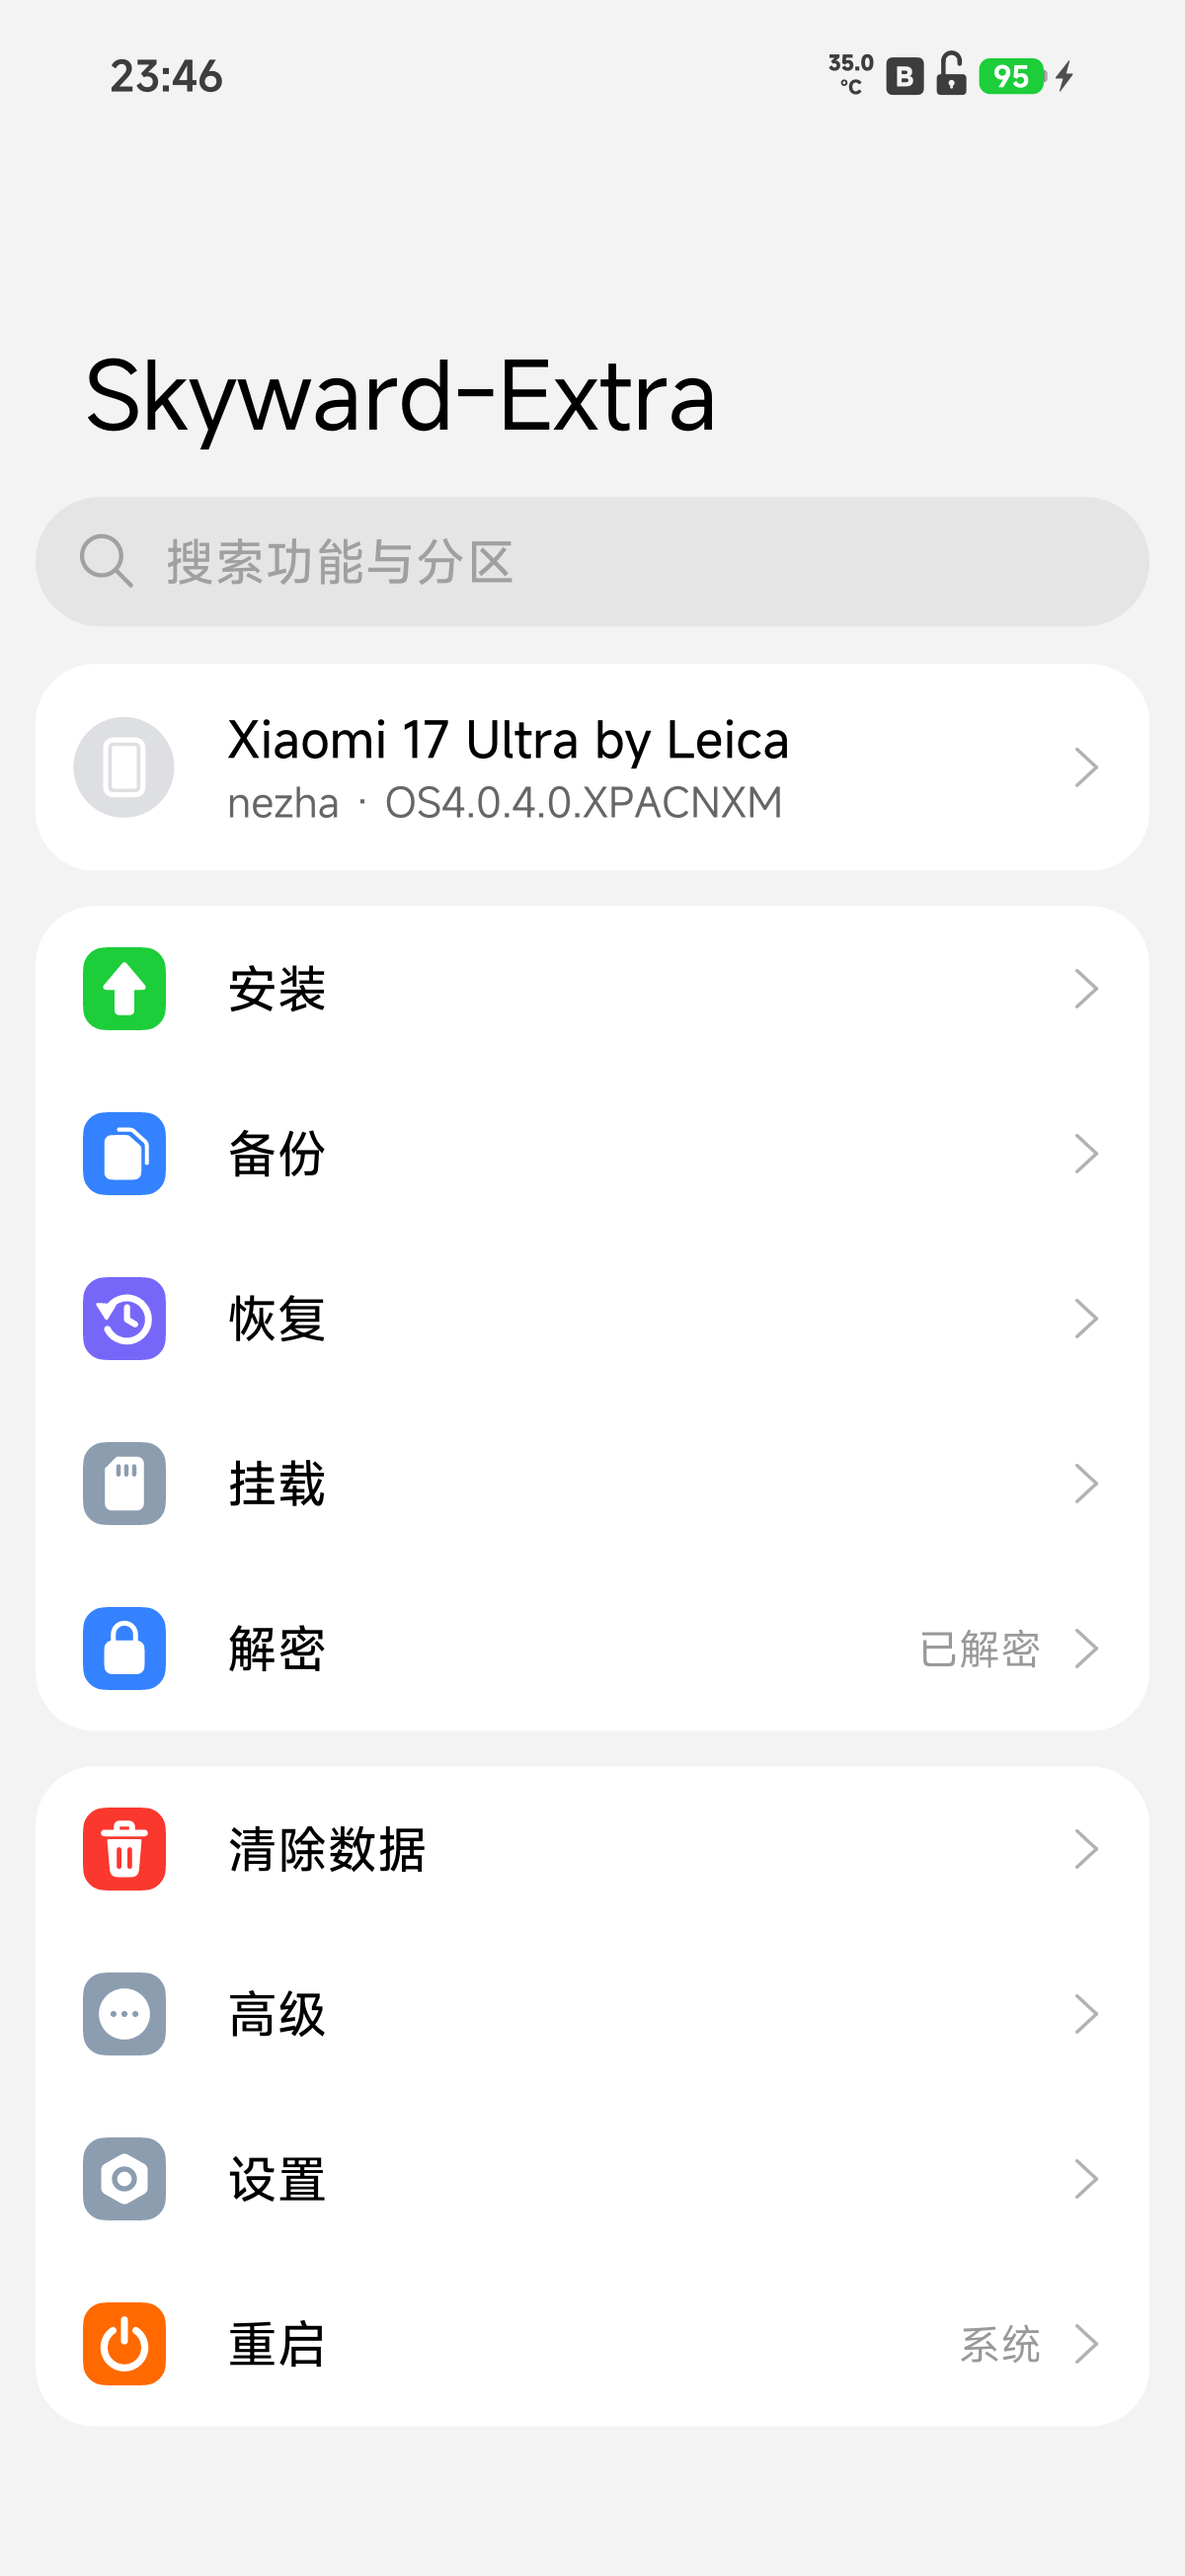
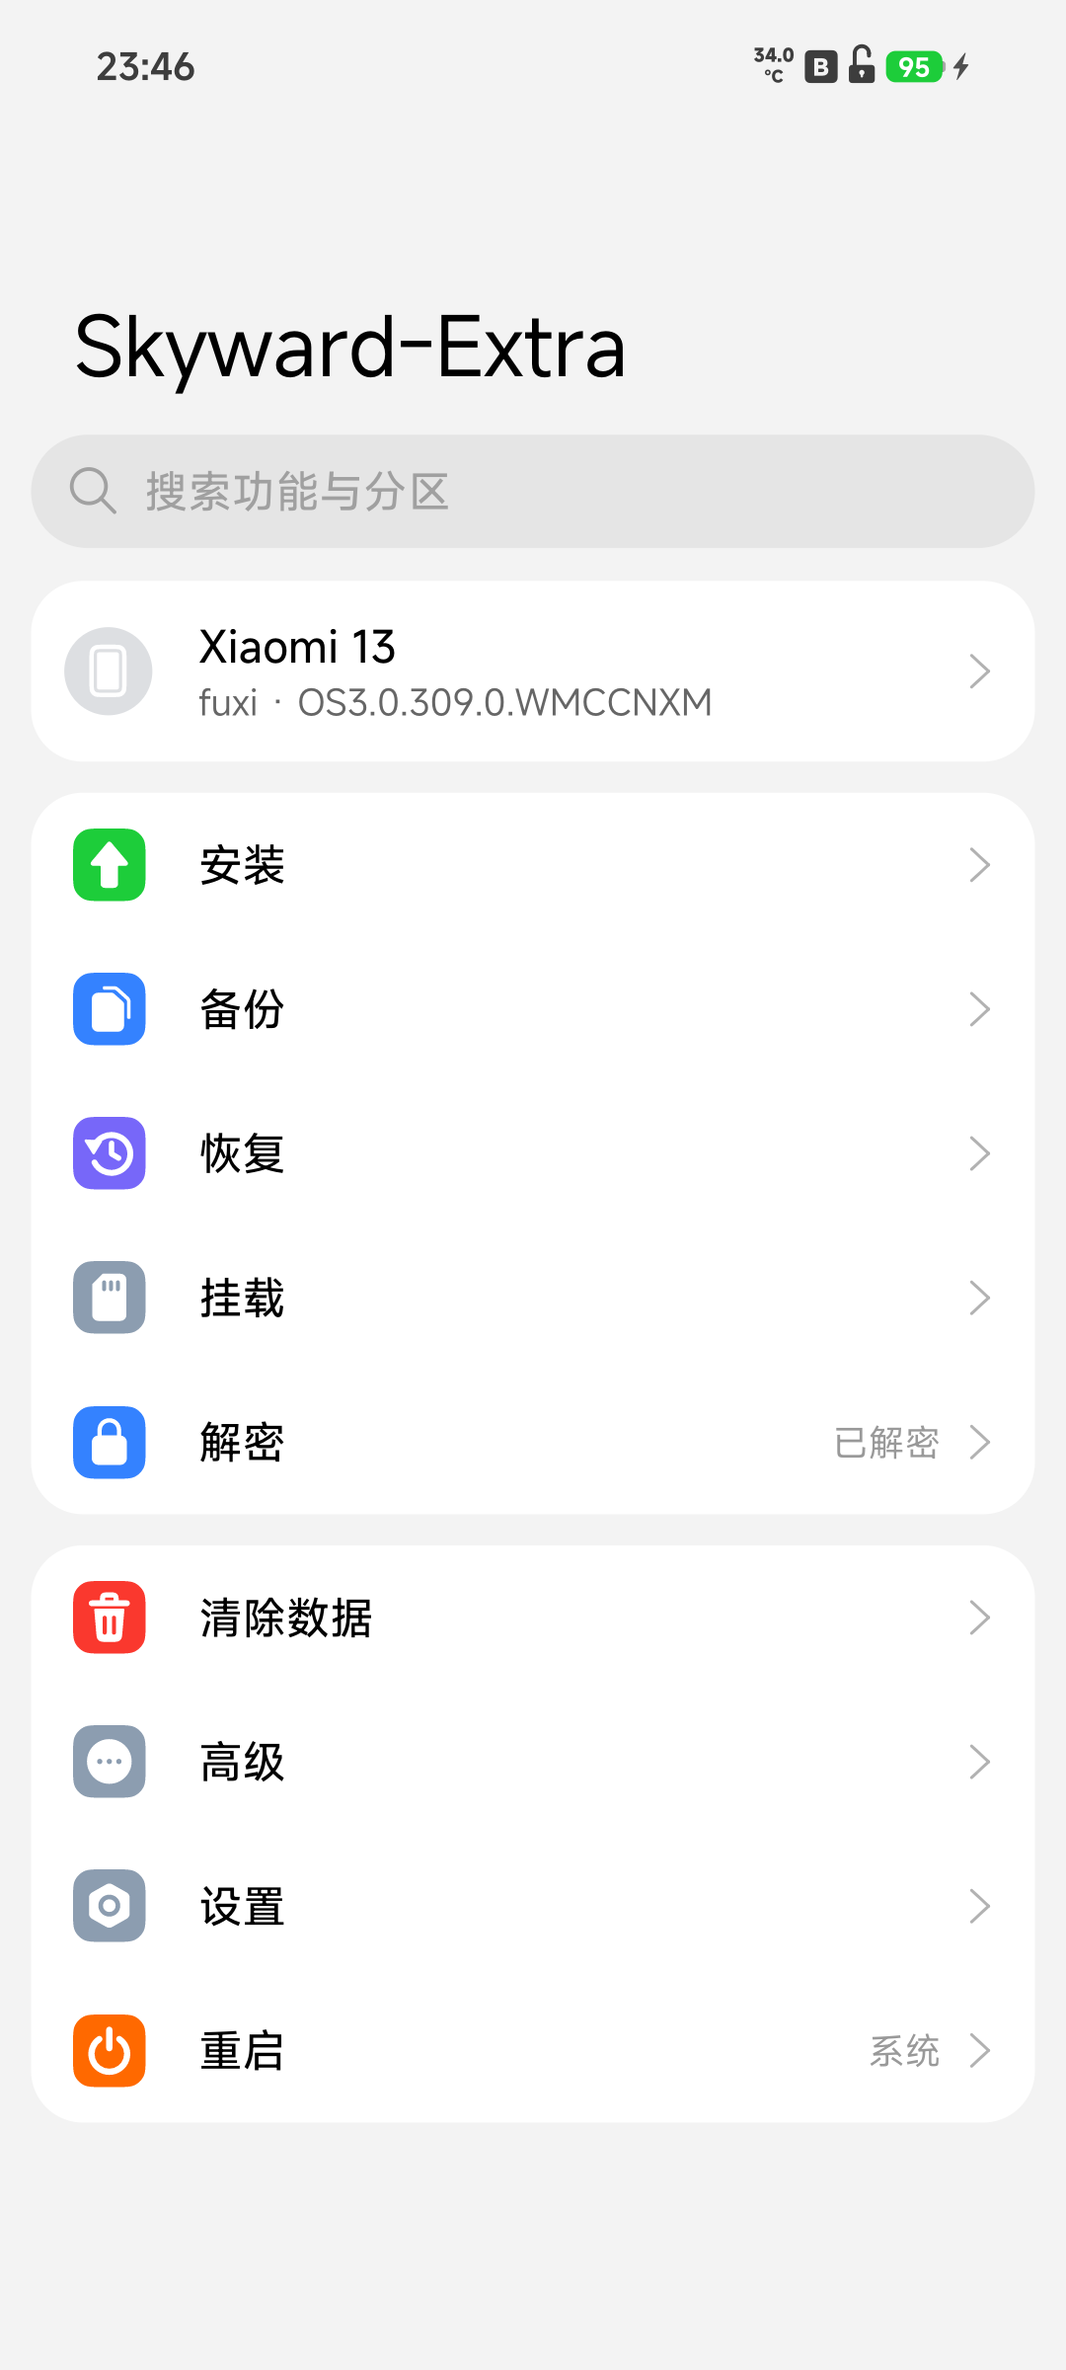
Show the stopwatch and the about page in the README
The strip of screenshots gains the stopwatch, the time zone page gives way
to the device's own about page, and the five across drop from 24% to 19%
each so they stay on one row. Both languages follow the same order.

The screenshots are stored without an alpha channel: every pixel of them
is opaque, so it held nothing but bytes. Optimised losslessly they come to
1.1 MB where they were 4.2 MB, and not one pixel differs.

diff --git a/README.zh-CN.md b/README.zh-CN.md
@@ -8,10 +8,11 @@ Skyward-Extra 是一个基于 Skyward（一个从零开始、用 Rust 编写的 
 此项目不但包含 Skyward 的所有功能，还附加了一些其他扩展功能。
 
 <p align="center">
-  <img src="assets/desktop.png" width="24%" alt="桌面">
-  <img src="assets/home.png" width="24%" alt="首页">
-  <img src="assets/settings-dark.png" width="24%" alt="深色模式下的设置">
-  <img src="assets/time-zone.png" width="24%" alt="时区">
+  <img src="assets/desktop.png" width="19%" alt="桌面">
+  <img src="assets/home.png" width="19%" alt="首页">
+  <img src="assets/stopwatch.png" width="19%" alt="秒表">
+  <img src="assets/settings-dark.png" width="19%" alt="深色模式下的设置">
+  <img src="assets/about.png" width="19%" alt="关于">
 </p>
 
 ## 功能

diff --git a/README.md b/README.md
@@ -8,10 +8,11 @@ Skyward-Extra is an extension built on Skyward, a from-scratch Rust Android reco
 It includes all of Skyward's features, plus some additional extensions.
 
 <p align="center">
-  <img src="assets/desktop.png" width="24%" alt="Desktop">
-  <img src="assets/home.png" width="24%" alt="Home">
-  <img src="assets/settings-dark.png" width="24%" alt="Settings in dark mode">
-  <img src="assets/time-zone.png" width="24%" alt="Time zone">
+  <img src="assets/desktop.png" width="19%" alt="Desktop">
+  <img src="assets/home.png" width="19%" alt="Home">
+  <img src="assets/stopwatch.png" width="19%" alt="Stopwatch">
+  <img src="assets/settings-dark.png" width="19%" alt="Settings in dark mode">
+  <img src="assets/about.png" width="19%" alt="About">
 </p>
 
 ## Features
